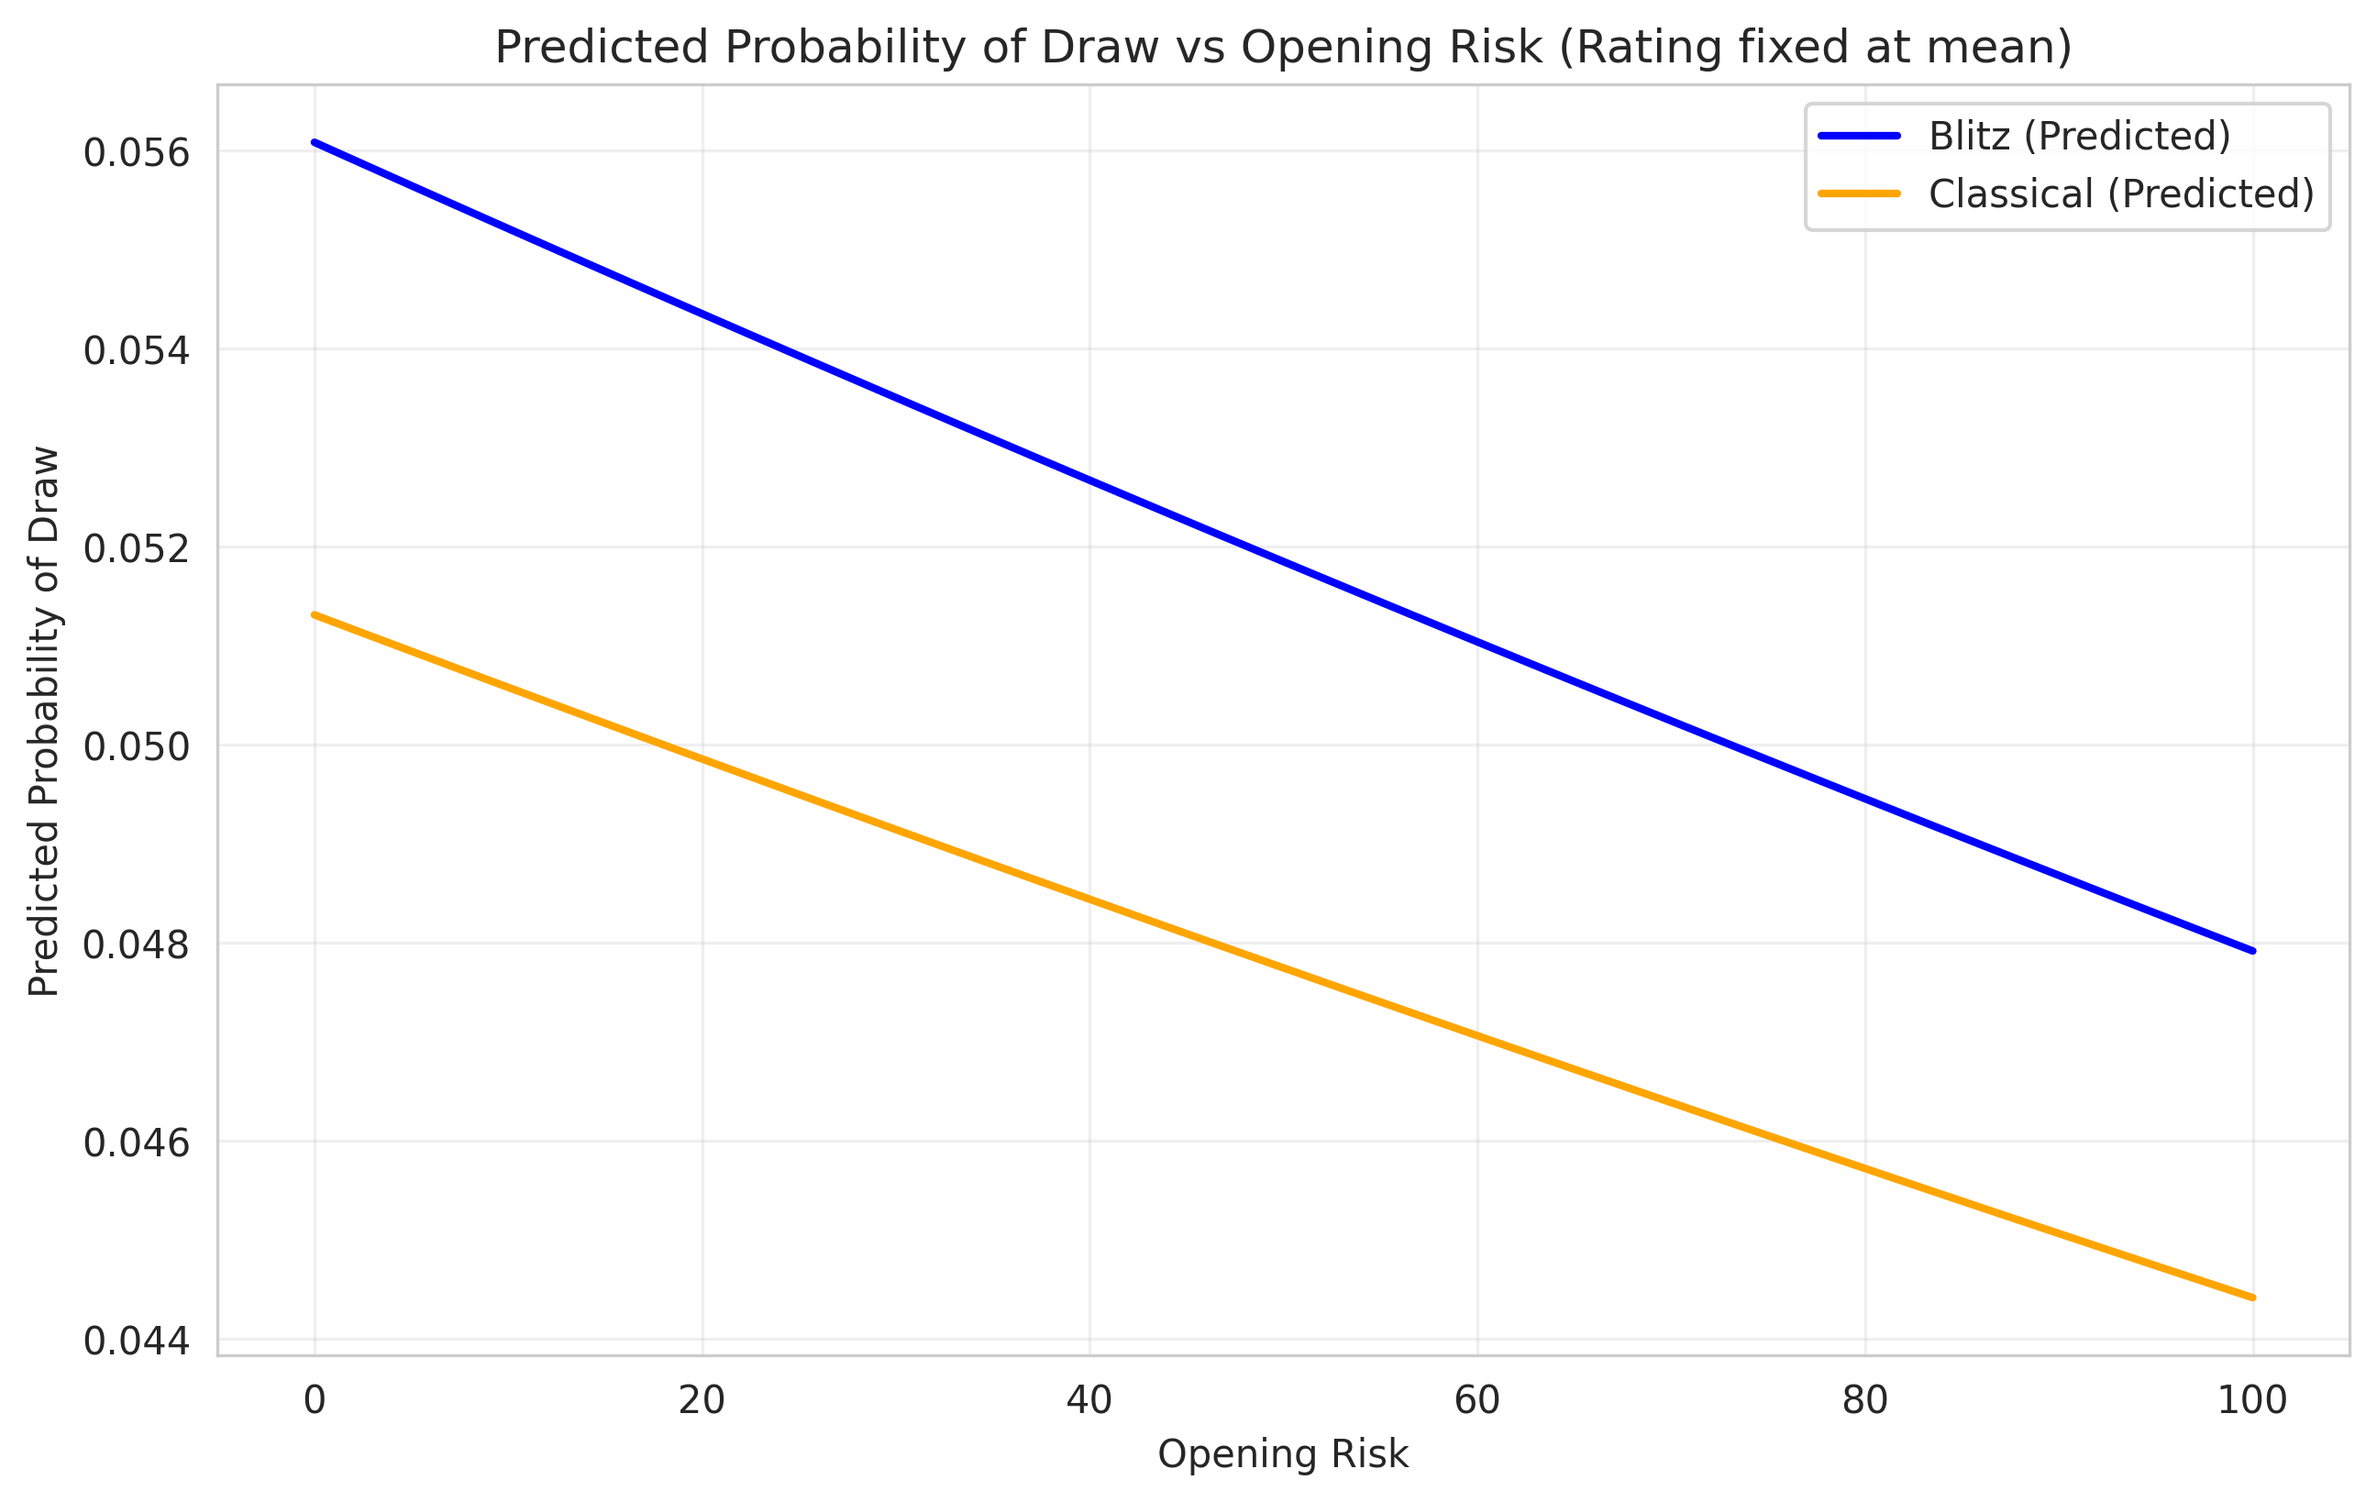
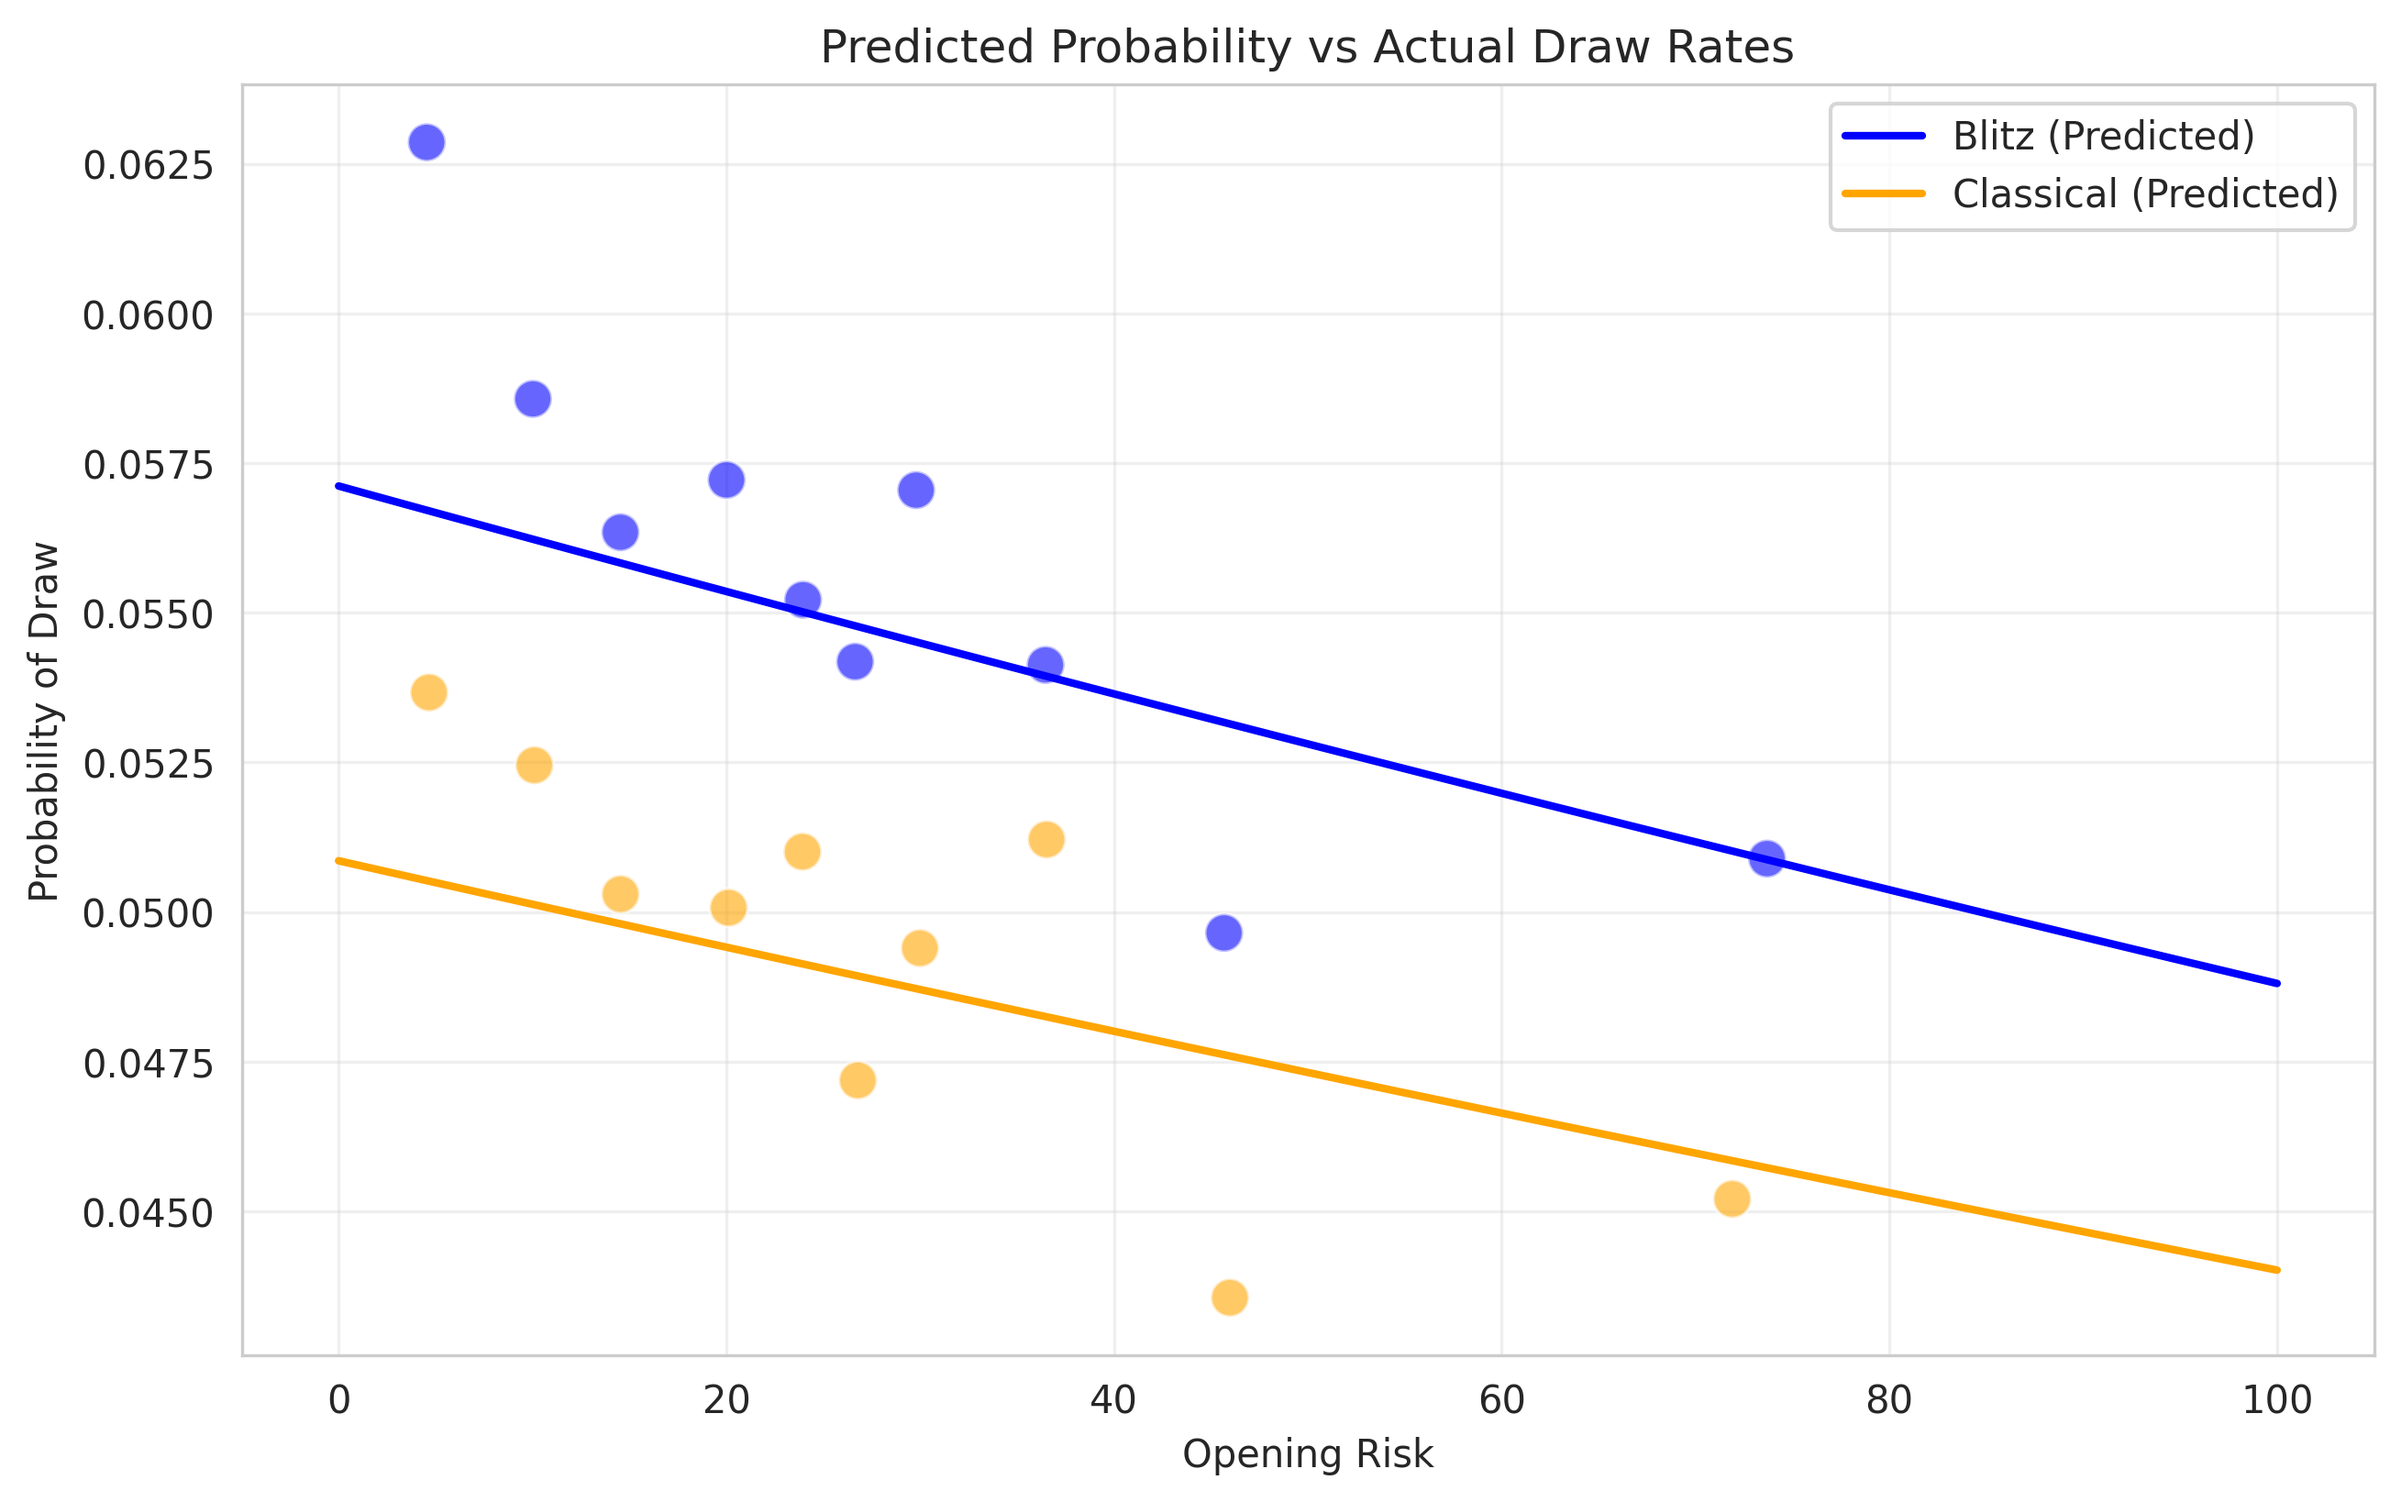
Added some new plots and fixed existing logic.

diff --git a/app/opening_risk_analysis.py b/app/opening_risk_analysis.py
@@ -183,15 +183,29 @@ risk_range_raw = risk_range_z * risk_std + risk_mean
 
 colors = {'Blitz': 'blue', 'Classical': 'orange'}
 
+sns.scatterplot(
+    data=plot_df, 
+    x='mean_risk_bin', 
+    y='draw_rate', 
+    hue='time_control', 
+    palette=colors, 
+    s=100, 
+    alpha=0.6, 
+    legend=False 
+)
+
 for tc, model in models.items():
+    # Calculate mean rating for this specific time controlt
+    subset_tc = df_played[df_played['time_control'] == tc]
+    mean_rating_z_tc = subset_tc['avg_rating_z'].mean()
+
     # Create prediction data
     pred_data = pd.DataFrame({
         'mean_risk_z': risk_range_z,
-        'avg_rating_z': 0  # Fix rating at mean
+        'avg_rating_z': mean_rating_z_tc
     })
     
     # Handle event variable if it was in the model
-    subset_tc = df_played[df_played['time_control'] == tc]
     if 'event' in subset_tc.columns and subset_tc['event'].nunique() > 1:
         # Use the most common event as the reference
         most_common_event = subset_tc['event'].mode()[0]
@@ -203,9 +217,9 @@ for tc, model in models.items():
     except Exception as e:
         print(f"Could not plot predictions for {tc}: {e}")
 
-plt.title('Predicted Probability of Draw vs Opening Risk (Rating fixed at mean)')
+plt.title('Predicted Probability vs Actual Draw Rates')
 plt.xlabel('Opening Risk')
-plt.ylabel('Predicted Probability of Draw')
+plt.ylabel('Probability of Draw')
 plt.legend()
 plt.grid(True, alpha=0.3)
 plt.savefig('./Plots/opening_predicted_probabilities.png', dpi=300, bbox_inches='tight')
@@ -277,6 +291,35 @@ plt.tight_layout()
 plt.savefig('./Plots/opening_forfeit_rate_rating.png', dpi=300, bbox_inches='tight')
 plt.close()
 print("Saved Figure T2: Forfeit rate by rating")
+
+# Figure T3: Forfeit rate vs Opening Risk
+print("Generating Forfeit Rate vs Risk Plot...")
+df['risk_decile'] = pd.qcut(df['mean_risk'], 10, duplicates='drop')
+
+plt.figure(figsize=(12, 6))
+# Using pointplot to show the mean rate and confidence intervals
+sns.pointplot(
+    data=df, 
+    x='risk_decile', 
+    y='time_forfeit', 
+    color='dimgrey',
+    capsize=.1,
+    linestyles='-',
+    errorbar=('ci', 95)
+)
+plt.title('Time Forfeit Rate by Opening Risk Decile')
+plt.ylabel('Proportion of Games Ending in Time Forfeit')
+plt.xlabel('Opening Risk Range (Deciles)')
+plt.xticks(rotation=45)
+
+# Set Y-axis to 0-0.5 to show the lack of trend in context
+plt.ylim(0, 0.5)
+
+plt.grid(True, axis='y', alpha=0.3)
+plt.tight_layout()
+plt.savefig('./Plots/opening_forfeit_rate_risk.png', dpi=300, bbox_inches='tight')
+plt.close()
+print("Saved Figure T3: Forfeit rate by risk")
 
 # Main Model including Forfeits
 print("Running Main Model (Classical) treating Time Forfeits as Decisive Losses...")
